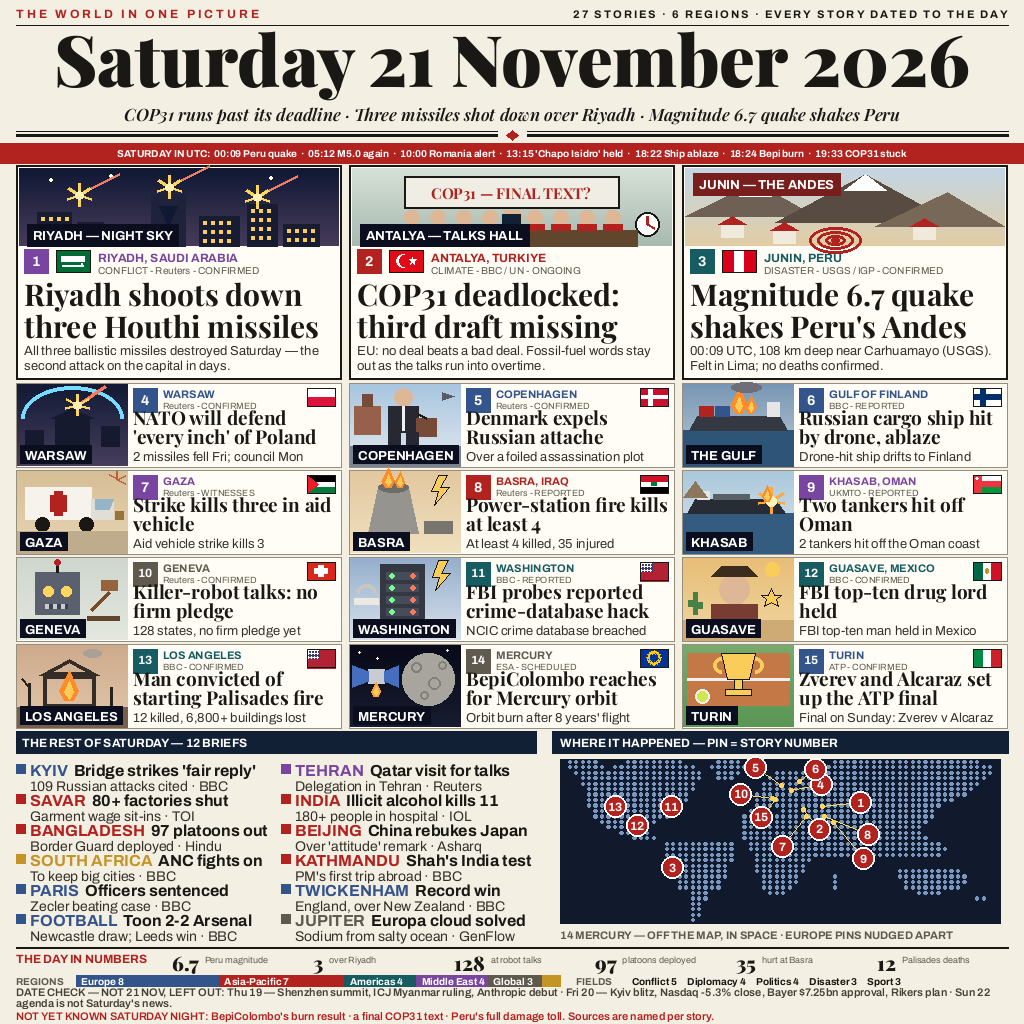
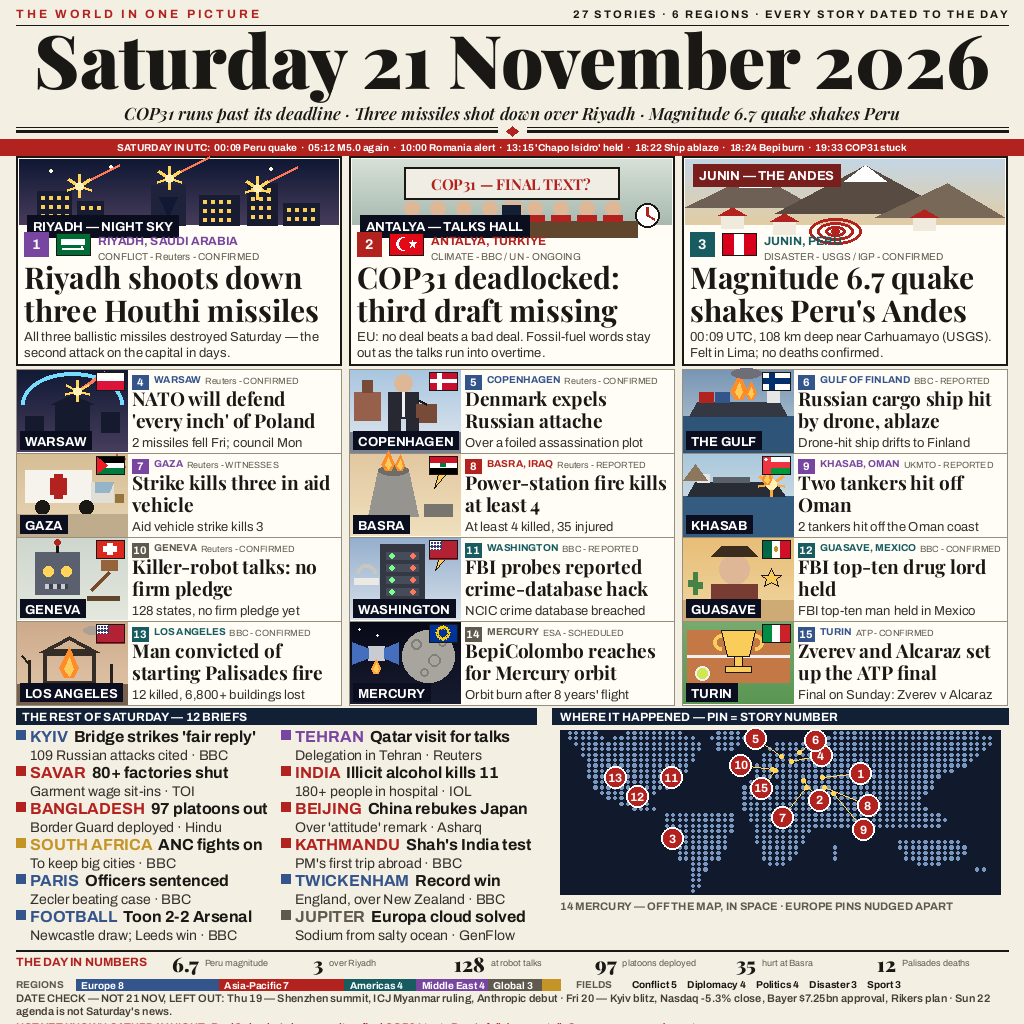
v3.10: spacing-only pass — global min gap >=3px everywhere (0 near-misses, 0 intersections, 0 line penetrations, line min 3px); card place+meta one line, mini badge, flag in scene corner; briefs pitch 36; footer rebalanced; no wording changes

diff --git a/draw.py b/draw.py
@@ -245,6 +245,7 @@ BANNER_CHECK = []
 H_CHECKS = []
 TEXT_BOXES = []
 LINES = []
+LINES = []
 
 
 class RecDraw:
@@ -290,6 +291,36 @@ def audit_text_boxes():
                     near.append((sa[:38], sb[:38], "h", gap))
     print(f"TEXT-AUDIT: {n} text boxes, {n * (n - 1) // 2} pairs checked, "
           f"{len(hits)} intersections, {len(near)} near-misses (<3px)")
+    for h in hits:
+        print("  INTERSECT:", h)
+    for h in near:
+        print("  NEAR:", h)
+    pens, mind, minpair = [], 999, None
+    for (bx0, by0, bx1, by1), txt in TEXT_BOXES:
+        for (lx0, ly0, lx1, ly1), lab in LINES:
+            if ly0 == ly1:  # horizontal line
+                if min(bx1, lx1) - max(bx0, lx0) <= 2:
+                    continue
+                if by0 < ly0 < by1:
+                    pens.append((txt[:30], lab))
+                else:
+                    dist = by0 - ly0 if by0 >= ly0 else ly0 - by1
+                    if 0 <= dist < mind:
+                        mind, minpair = dist, (txt[:30], lab)
+            else:  # vertical line
+                if min(by1, ly1) - max(by0, ly0) <= 2:
+                    continue
+                if bx0 < lx0 < bx1:
+                    pens.append((txt[:30], lab))
+                else:
+                    dist = bx0 - lx0 if bx0 >= lx0 else lx0 - bx1
+                    if 0 <= dist < mind:
+                        mind, minpair = dist, (txt[:30], lab)
+    print(f"LINE-AUDIT: {len(LINES)} lines x {n} texts, "
+          f"{len(pens)} penetrations, min text-to-line distance "
+          f"{mind}px at {minpair}")
+    for p in pens:
+        print("  PENETRATION:", p)
     for h in hits:
         print("  INTERSECT:", h)
     for h in near:
@@ -722,9 +753,9 @@ def main():
         bb = d.textbbox((0, 0), "Saturday 21 November 2026", font=fnt)
         date_y = 31 - bb[1]
         date_ink_bot = date_y + bb[3]
-        strap_y = date_ink_bot + 6 - sbb[1]
+        strap_y = date_ink_bot + 3 - sbb[1]
         strap_ink_bot = strap_y + sbb[3]
-        rule1 = strap_ink_bot + 6
+        rule1 = strap_ink_bot + 3
         if rule1 + 4 + 8 + 20 <= 163:
             break
     date_font = fnt
@@ -747,13 +778,13 @@ def main():
     d.polygon([(W // 2, rule1 - 1), (W // 2 + 6, rule1 + 4),
                (W // 2, rule1 + 9), (W // 2 - 6, rule1 + 4)], fill=RED)
     tl = "SATURDAY IN UTC:  " + "  \u00b7  ".join(f"{t} {l}" for t, l in TIMELINE)
-    d.rectangle([0, rule1 + 12, W, rule1 + 32], fill=RED)
-    center(d, rule1 + 17, tl, SANS_B(10), (255, 255, 255))
+    d.rectangle([0, rule1 + 12, W, rule1 + 28], fill=RED)
+    center(d, rule1 + 15, tl, SANS_B(10), (255, 255, 255))
     check_h("timeline", tl, SANS_B(10),
             W // 2 - d.textlength(tl, font=SANS_B(10)) / 2, W - 8)
 
     # ---------------------------------------------------------- heroes
-    hy, hh = 165, 214
+    hy, hh = 156, 209
     hw = (W - 32 - 16) // 3
     for i, hero in enumerate(HEROES):
         x = 16 + i * (hw + 8)
@@ -766,19 +797,25 @@ def main():
                 ((x, hy, x, hy + hh), f"hero{i+1} left"),
                 ((x + hw, hy, x + hw, hy + hh), f"hero{i+1} right")):
             LINES.append((seg, lab))
-        HERO_SCENES[i](d, x + 3, hy + 3, hw - 6, 78)
-        yy = hy + 84
+        for seg, lab in (
+                ((x, hy, x + hw, hy), f"hero{i+1} top"),
+                ((x, hy + hh, x + hw, hy + hh), f"hero{i+1} bottom"),
+                ((x, hy, x, hy + hh), f"hero{i+1} left"),
+                ((x + hw, hy, x + hw, hy + hh), f"hero{i+1} right")):
+            LINES.append((seg, lab))
+        HERO_SCENES[i](d, x + 3, hy + 3, hw - 6, 66)
+        yy = hy + 76
         badge(d, x + 8, yy, i + 1, region)
         flag(d, HERO_FLAGS[i], x + 40, yy + 1)
         d.text((x + 82, yy + 2), place, font=SANS_B(12), fill=REGIONS[region][1])
         check_h(f"hero{i+1} place", place, SANS_B(12), x + 82, x + hw - 8)
         meta = f"{field.upper()} - {src} - {SURE_LABEL[sure]}"
-        d.text((x + 82, yy + 16), meta, font=SANS(10), fill=MUTE)
+        d.text((x + 82, yy + 19), meta, font=SANS(10), fill=MUTE)
         check_h(f"hero{i+1} meta", meta, SANS(10), x + 82, x + hw - 8)
         yy += 24
-        yy = text_block(d, x + 8, yy, head, SERIF(30), INK, hw - 16, 32,
+        yy = text_block(d, x + 8, yy, head, SERIF(30), INK, hw - 16, 33,
                         max_lines=2, tag=f"hero{i}")
-        text_block(d, x + 8, yy + 6, deck, SANS(13), (52, 48, 42), hw - 16, 15,
+        text_block(d, x + 8, yy + 7, deck, SANS(13), (52, 48, 42), hw - 16, 16,
                    max_lines=2, tag=f"herodeck{i}")
     # ---------------------------------------------------------- cards
     cy = hy + hh + 4
@@ -786,7 +823,7 @@ def main():
     for i, card in enumerate(CARDS):
         place, region, field, head, deck, src, sure = card
         x = 16 + (i % 3) * (chw + 8)
-        yy0 = cy + (i // 3) * (chh + 3)
+        yy0 = cy + (i // 3) * chh
         d.rectangle([x, yy0, x + chw, yy0 + chh], fill=(255, 253, 246),
                     outline=(150, 142, 126), width=1)
         for seg, lab in (
@@ -795,34 +832,44 @@ def main():
                 ((x, yy0, x, yy0 + chh), f"card{i+4} left"),
                 ((x + chw, yy0, x + chw, yy0 + chh), f"card{i+4} right")):
             LINES.append((seg, lab))
+        for seg, lab in (
+                ((x, yy0, x + chw, yy0), f"card{i+4} top"),
+                ((x, yy0 + chh, x + chw, yy0 + chh), f"card{i+4} bottom"),
+                ((x, yy0, x, yy0 + chh), f"card{i+4} left"),
+                ((x + chw, yy0, x + chw, yy0 + chh), f"card{i+4} right")):
+            LINES.append((seg, lab))
         CARD_SCENES[i](d, x + 1, yy0 + 1, 110, chh - 2)
-        tx = x + 117
-        badge(d, tx, yy0 + 5, i + 4, region)
-        flag(d, CARD_FLAGS[i], x + chw - 34, yy0 + 5, w=28, h=18)
-        d.text((tx + 30, yy0 + 5), place, font=SANS_B(11),
+        flag(d, CARD_FLAGS[i], x + 80, yy0 + 3, w=28, h=18)
+        tx = x + 116
+        d.rectangle([tx, yy0 + 6, tx + 16, yy0 + 20],
+                    fill=REGIONS[region][1])
+        t = str(i + 4)
+        d.text((tx + 8 - d.textlength(t, font=SANS_B(11)) / 2, yy0 + 7),
+               t, font=SANS_B(11), fill=(255, 255, 255))
+        d.text((tx + 22, yy0 + 5), place, font=SANS_B(10),
                fill=REGIONS[region][1])
-        check_h(f"card{i+4} place", place, SANS_B(11), tx + 30, x + chw - 40)
+        mx = tx + 22 + d.textlength(place, font=SANS_B(10)) + 4
         cmeta = f"{src} - {SURE_LABEL[sure]}"
-        d.text((tx + 30, yy0 + 18), cmeta, font=SANS(9), fill=MUTE)
-        check_h(f"card{i+4} meta", cmeta, SANS(9), tx + 30, x + chw - 6)
-        text_block(d, tx, yy0 + 21, head, SERIF(19), INK, chw - 123, 19,
+        d.text((mx, yy0 + 7), cmeta, font=SANS(9), fill=MUTE)
+        check_h(f"card{i+4} meta", cmeta, SANS(9), mx, x + chw - 6)
+        text_block(d, tx, yy0 + 16, head, SERIF(19), INK, chw - 123, 22,
                    max_lines=2, tag=f"card{i}")
         d.text((tx, yy0 + 66), CARD_INFO[i], font=SANS(13),
                fill=(52, 48, 42))
         check_h(f"card{i+4} info", CARD_INFO[i], SANS(13), tx, x + chw - 6)
-    by = cy + 4 * (chh + 3) - 3 + 3
+    by = cy + 3 * chh + chh + 3
 
     # ------------------------------------------- briefs (left) + map (right)
     sec_y = by
-    d.rectangle([16, sec_y, 536, sec_y + 22], fill=NAVY)
-    d.text((22, sec_y + 5), f"THE REST OF SATURDAY — {len(BRIEFS)} BRIEFS",
+    d.rectangle([16, sec_y, 536, sec_y + 16], fill=NAVY)
+    d.text((22, sec_y + 2), f"THE REST OF SATURDAY — {len(BRIEFS)} BRIEFS",
            font=SANS_B(12), fill=(255, 255, 255))
     colw = (536 - 16 - 10) // 2
     for i, (place, region, field, head, text) in enumerate(BRIEFS):
         col = i % 2
         row = i // 2
         x = 16 + col * (colw + 10)
-        yy = sec_y + 30 + row * 30
+        yy = sec_y + 19 + row * 36
         d.rectangle([x, yy + 3, x + 9, yy + 12], fill=REGIONS[region][1])
         d.text((x + 14, yy), place, font=SANS_B(16), fill=REGIONS[region][1])
         px = x + 14 + d.textlength(place, font=SANS_B(16)) + 6
@@ -831,18 +878,18 @@ def main():
         if d.textlength(text, font=SANS(14)) > colw - 14:
             OVERFLOWS.append(f"brief{i} text too wide: {text[:30]}")
         d.text((px, yy), head, font=SANS_B(16), fill=INK)
-        d.text((x + 14, yy + 17), text, font=SANS(14), fill=(52, 48, 42))
+        d.text((x + 14, yy + 20), text, font=SANS(14), fill=(52, 48, 42))
 
     # map panel: pins carry the story numbers of heroes (1-3) and cards (4-15)
     mx0, my0, mx1 = 552, sec_y, 1008
-    d.rectangle([mx0, my0, mx1, sec_y + 22], fill=NAVY)
-    d.text((mx0 + 8, my0 + 5), "WHERE IT HAPPENED — PIN = STORY NUMBER",
+    d.rectangle([mx0, my0, mx1, sec_y + 16], fill=NAVY)
+    d.text((mx0 + 8, my0 + 2), "WHERE IT HAPPENED — PIN = STORY NUMBER",
            font=SANS_B(12), fill=(255, 255, 255))
     check_h("map header", "WHERE IT HAPPENED — PIN = STORY NUMBER",
             SANS_B(12), mx0 + 8, mx1 - 8)
     check_h("briefs header", f"THE REST OF SATURDAY — {len(BRIEFS)} BRIEFS",
             SANS_B(12), 22, 536 - 8)
-    map_y, map_h, map_w = sec_y + 28, 164, mx1 - mx0 - 16
+    map_y, map_h, map_w = sec_y + 22, 164, mx1 - mx0 - 16
     map_x = mx0 + 8
     d.rectangle([map_x, map_y, map_x + map_w, map_y + map_h], fill=(16, 26, 44))
     cw, chh2 = map_w / 68, map_h / 30
@@ -870,7 +917,7 @@ def main():
            "PINS NUDGED APART", font=SANS_B(11), fill=MUTE)
     check_h("map caption", "14 MERCURY — OFF THE MAP, IN SPACE · EUROPE "
             "PINS NUDGED APART", SANS_B(11), mx0 + 8, mx1 - 8)
-    by = sec_y + 216
+    by = sec_y + 242
 
     # ------------------------------------------------- numbers + bars
     d.line([16, by, W - 16, by], fill=INK, width=2)
@@ -878,31 +925,31 @@ def main():
     d.text((16, by + 5), "THE DAY IN NUMBERS", font=SANS_B(12), fill=RED)
     nx = 172
     for num, lab in NUMBERS:
-        d.text((nx, by + 2), num, font=SERIF_BLACK(20), fill=INK)
+        d.text((nx, by + 0), num, font=SERIF_BLACK(20), fill=INK)
         lx = nx + d.textlength(num, font=SERIF_BLACK(20)) + 6
         d.text((lx, by + 8), lab, font=SANS(9), fill=MUTE)
         check_h(f"numbers label '{lab}'", lab, SANS(9), lx, nx + 139)
         nx += 141
-    by += 28
-    d.text((16, by + 1), "REGIONS", font=SANS_B(10), fill=MUTE)
+    by += 29
+    d.text((16, by + 0), "REGIONS", font=SANS_B(10), fill=MUTE)
     tally_bar(d, by, reg_counts, total, x0=76, x1=560, hgt=11)
-    d.text((576, by + 1), "FIELDS", font=SANS_B(10), fill=MUTE)
+    d.text((576, by + 0), "FIELDS", font=SANS_B(10), fill=MUTE)
     top_fields = sorted(field_counts.items(), key=lambda kv: -kv[1])[:5]
     fx = 632
     for name, n in top_fields:
-        d.text((fx, by + 1), f"{name} {n}", font=SANS_B(10), fill=INK)
+        d.text((fx, by + 0), f"{name} {n}", font=SANS_B(10), fill=INK)
         fx += d.textlength(f"{name} {n}", font=SANS_B(10)) + 10
-    by += 11
+    by += 13
 
     # ------------------------------------------------- date check + not yet
     dc = ("DATE CHECK — NOT 21 NOV, LEFT OUT: Thu 19 — Shenzhen summit, ICJ Myanmar "
           "ruling, Anthropic debut · Fri 20 — Kyiv blitz, Nasdaq -5.3% close, Bayer "
           "$7.25bn approval, Rikers plan · Sun 22 agenda is not Saturday's news.")
-    yy = text_block(d, 16, by, dc, SANS_SB(11), (70, 64, 54), W - 32, 11,
+    yy = text_block(d, 16, by, dc, SANS_SB(11), (70, 64, 54), W - 32, 13,
                     max_lines=2, tag="datecheck")
     ny = ("NOT YET KNOWN SATURDAY NIGHT: BepiColombo's burn result · a final COP31 "
           "text · Peru's full damage toll. Sources are named per story.")
-    text_block(d, 16, yy + 2, ny, SANS_SB(11), RED, W - 32, 12,
+    text_block(d, 16, yy + 3, ny, SANS_SB(11), RED, W - 32, 12,
                max_lines=1, tag="notyet")
 
     print(f"H-CHECKS: {len(H_CHECKS)} measured, "
